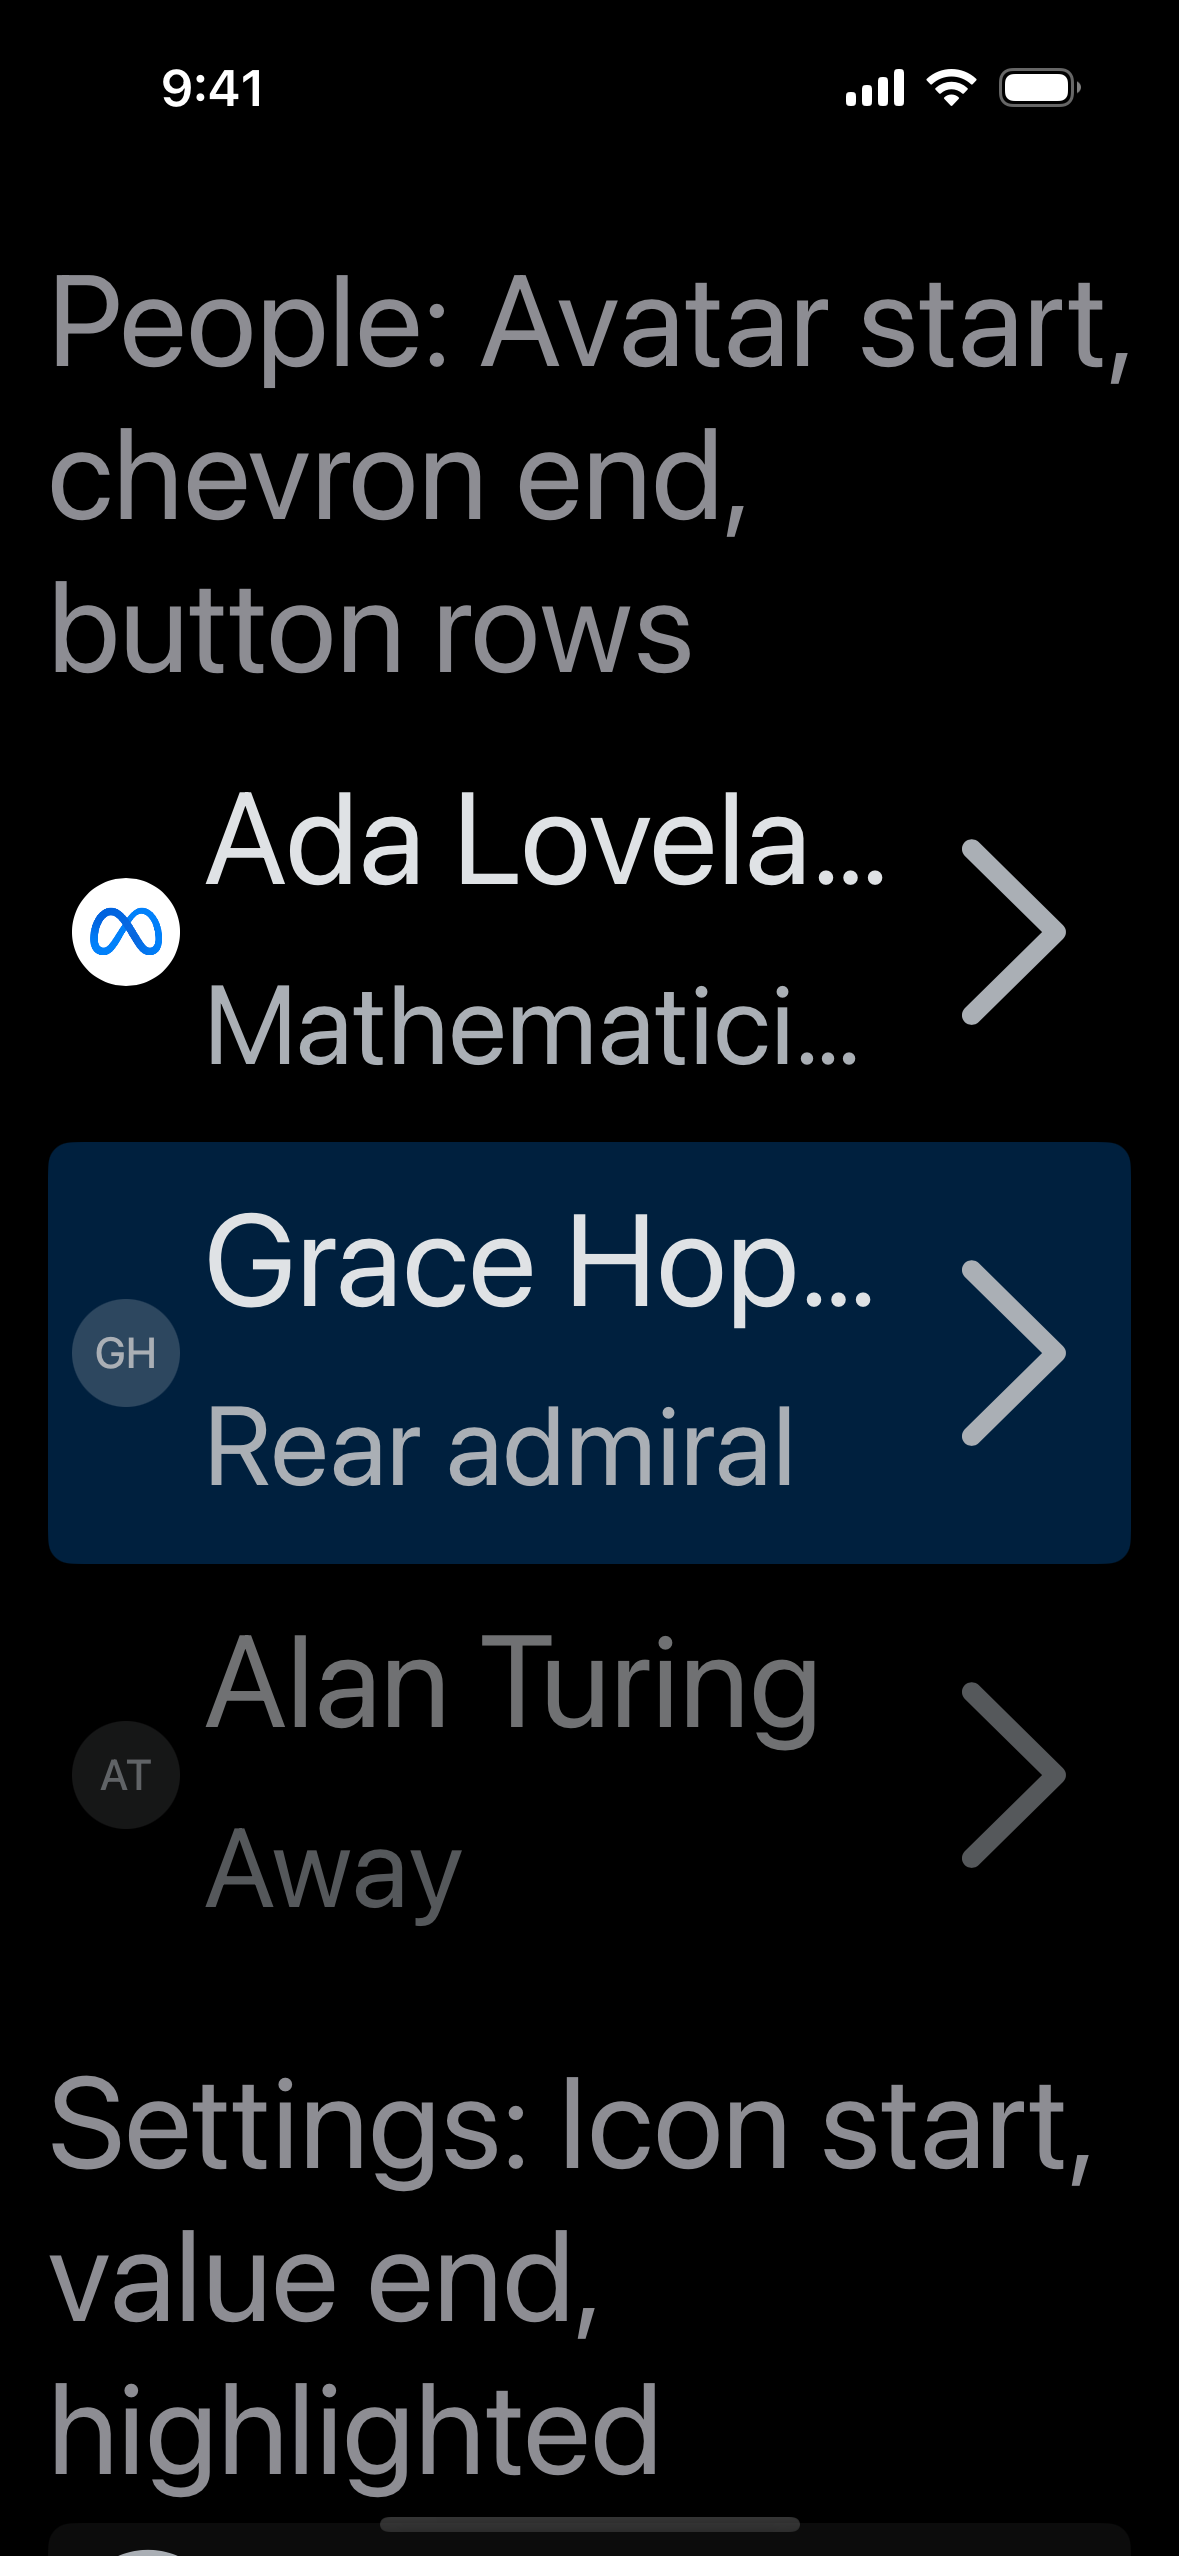
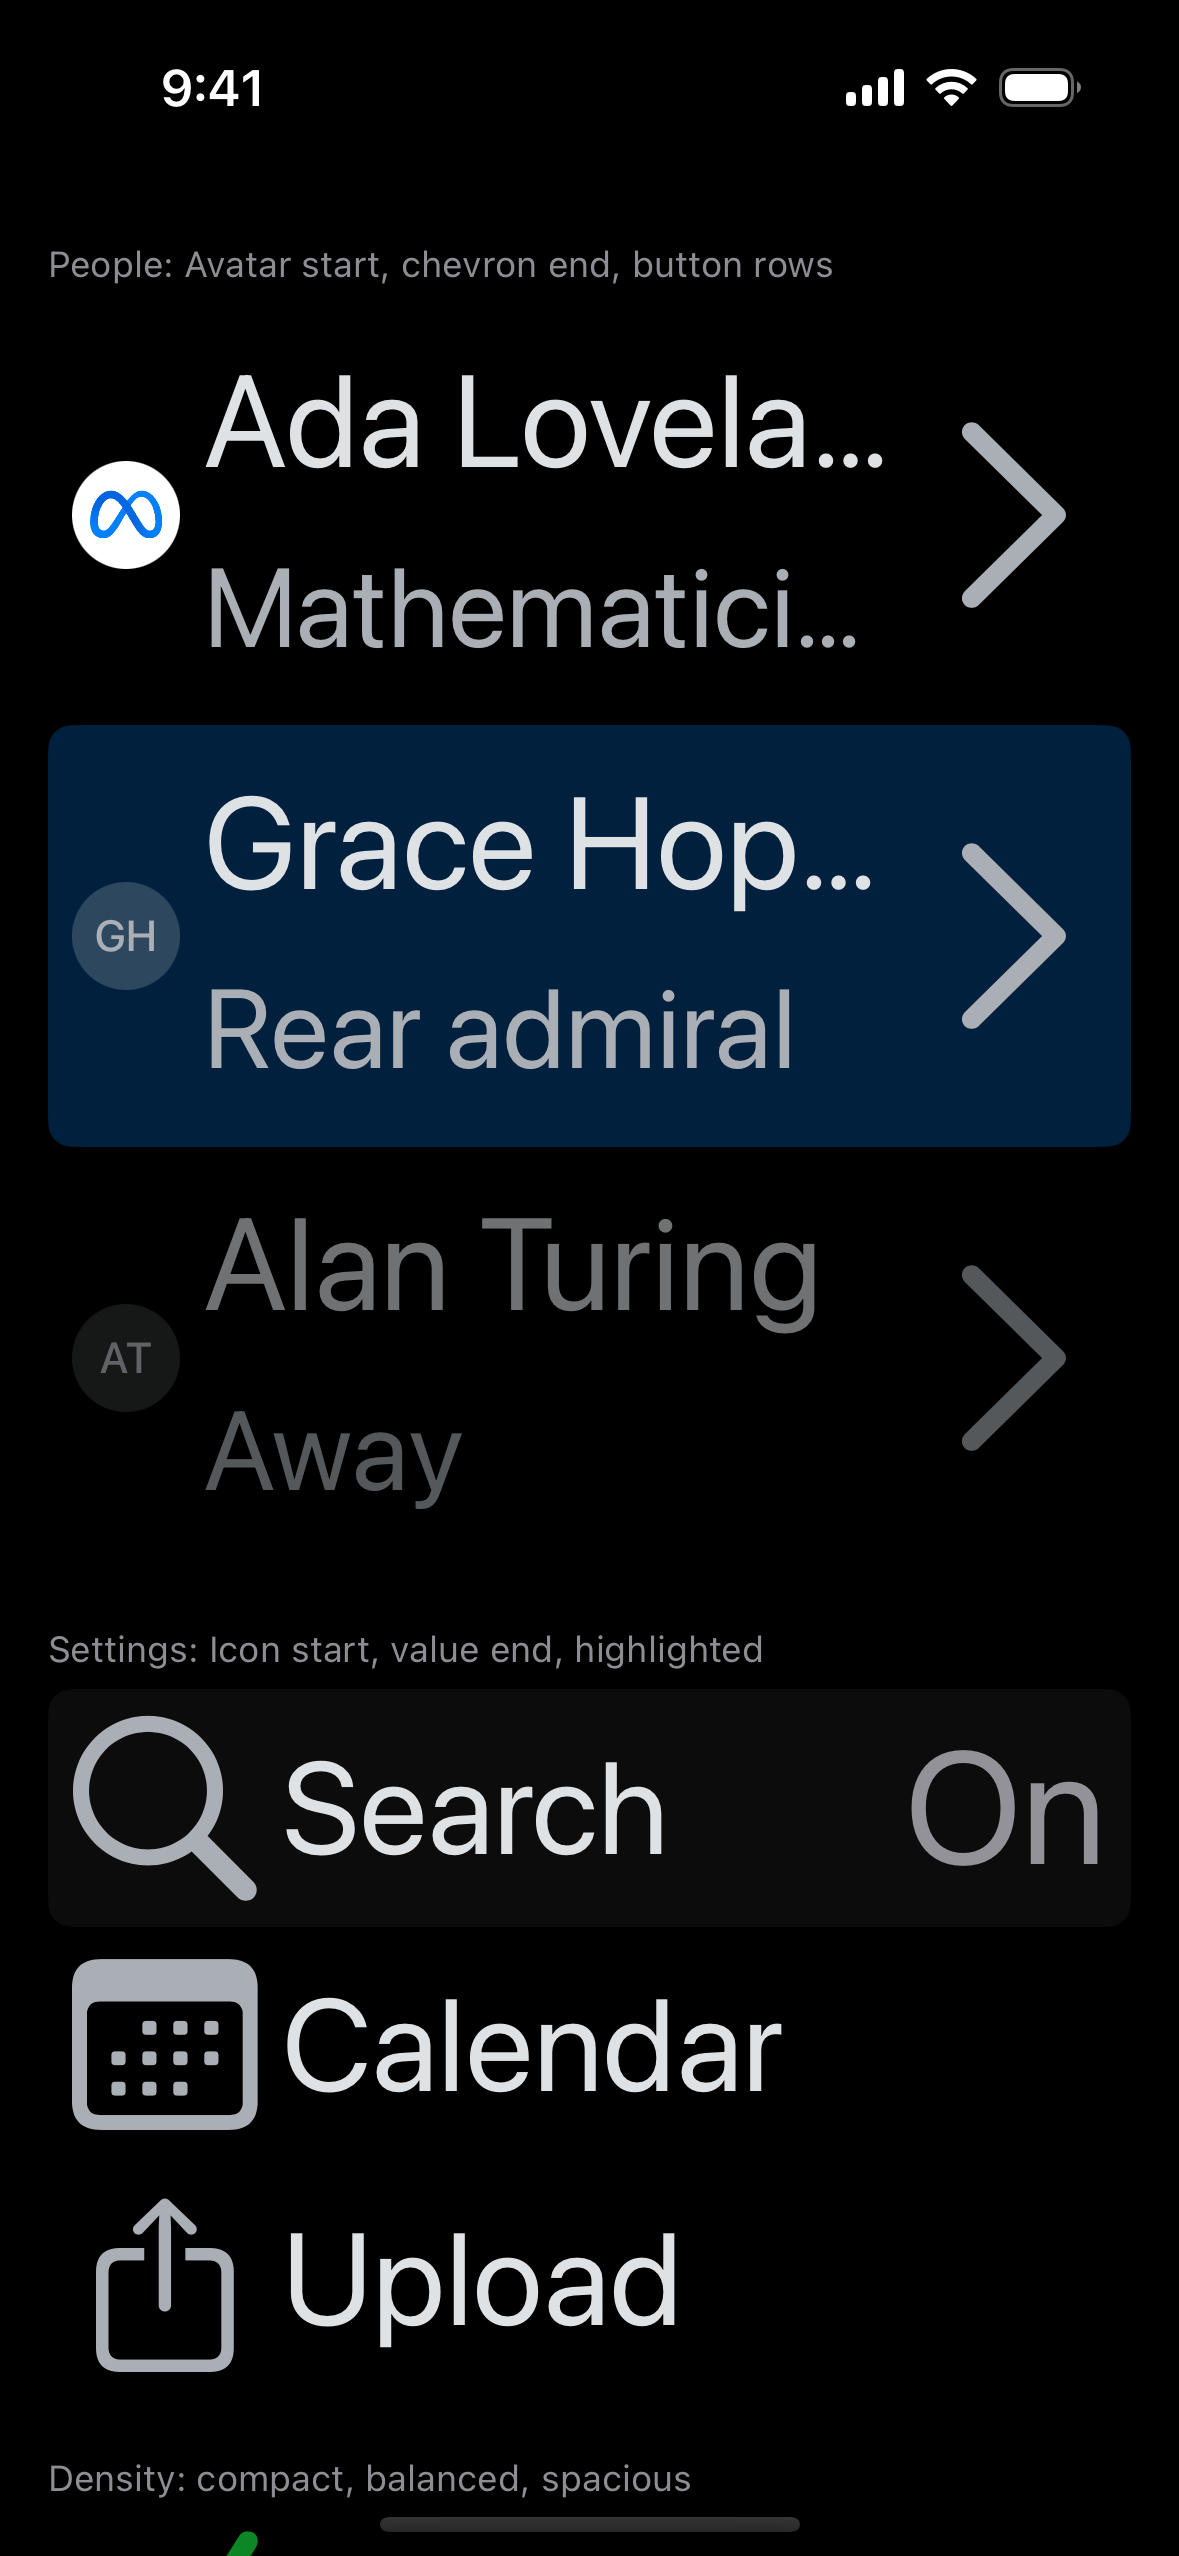
captures: a second, scrolled-to-end shot at the largest text size

diff --git a/Captures/Sources/CapturesApp.swift b/Captures/Sources/CapturesApp.swift
@@ -7,11 +7,14 @@ struct CapturesApp: App {
   var body: some Scene {
     WindowGroup {
       let name = UserDefaults.standard.string(forKey: "screen") ?? ""
+      // `-scrollToEnd YES` shows the bottom of a screen taller than the display.
+      let toEnd = UserDefaults.standard.bool(forKey: "scrollToEnd")
       ScrollView {
         captureScreen(named: name)
           .frame(maxWidth: .infinity, alignment: .leading)
           .padding(16)
       }
+      .defaultScrollAnchor(toEnd ? .bottom : .top)
       .background(Color(uiColor: .systemBackground))
     }
   }
